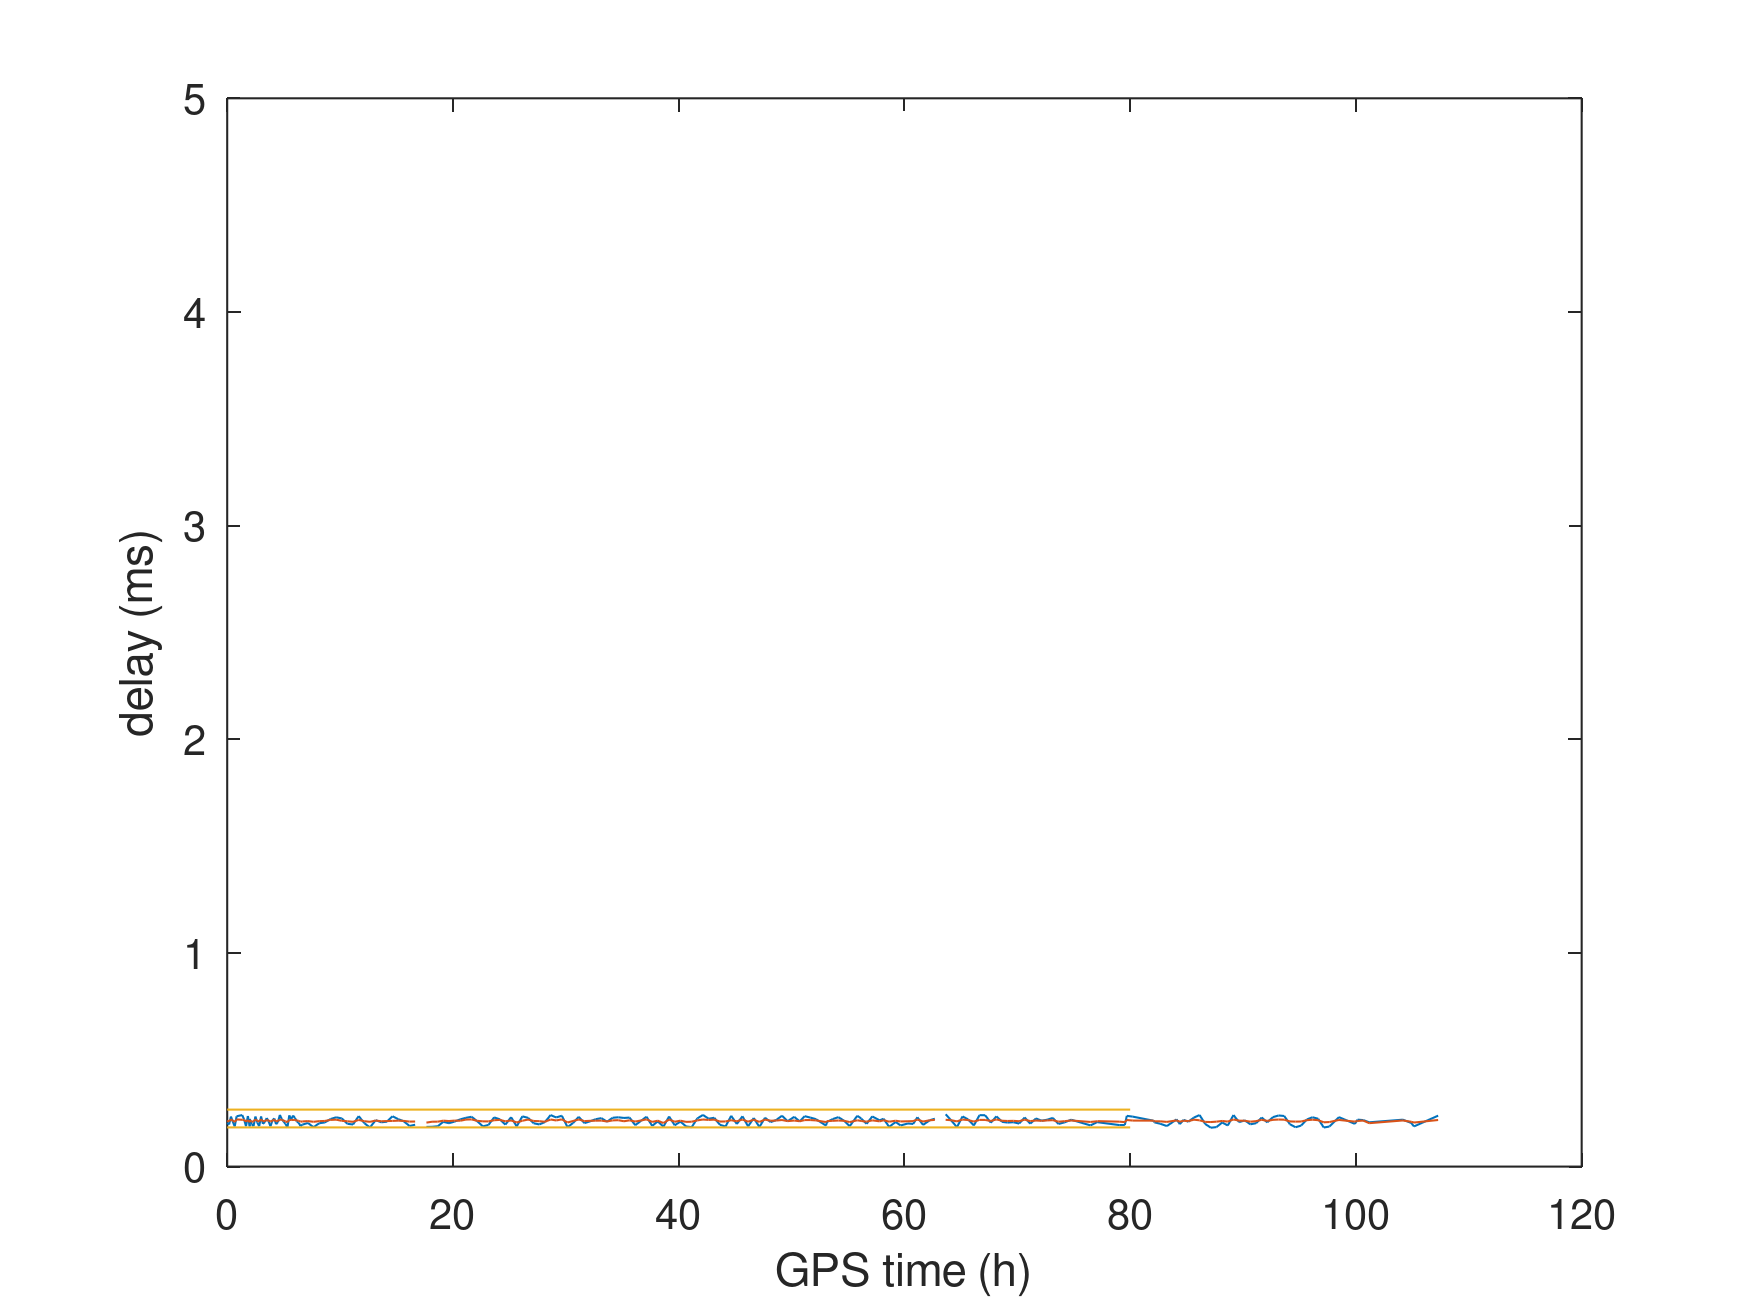
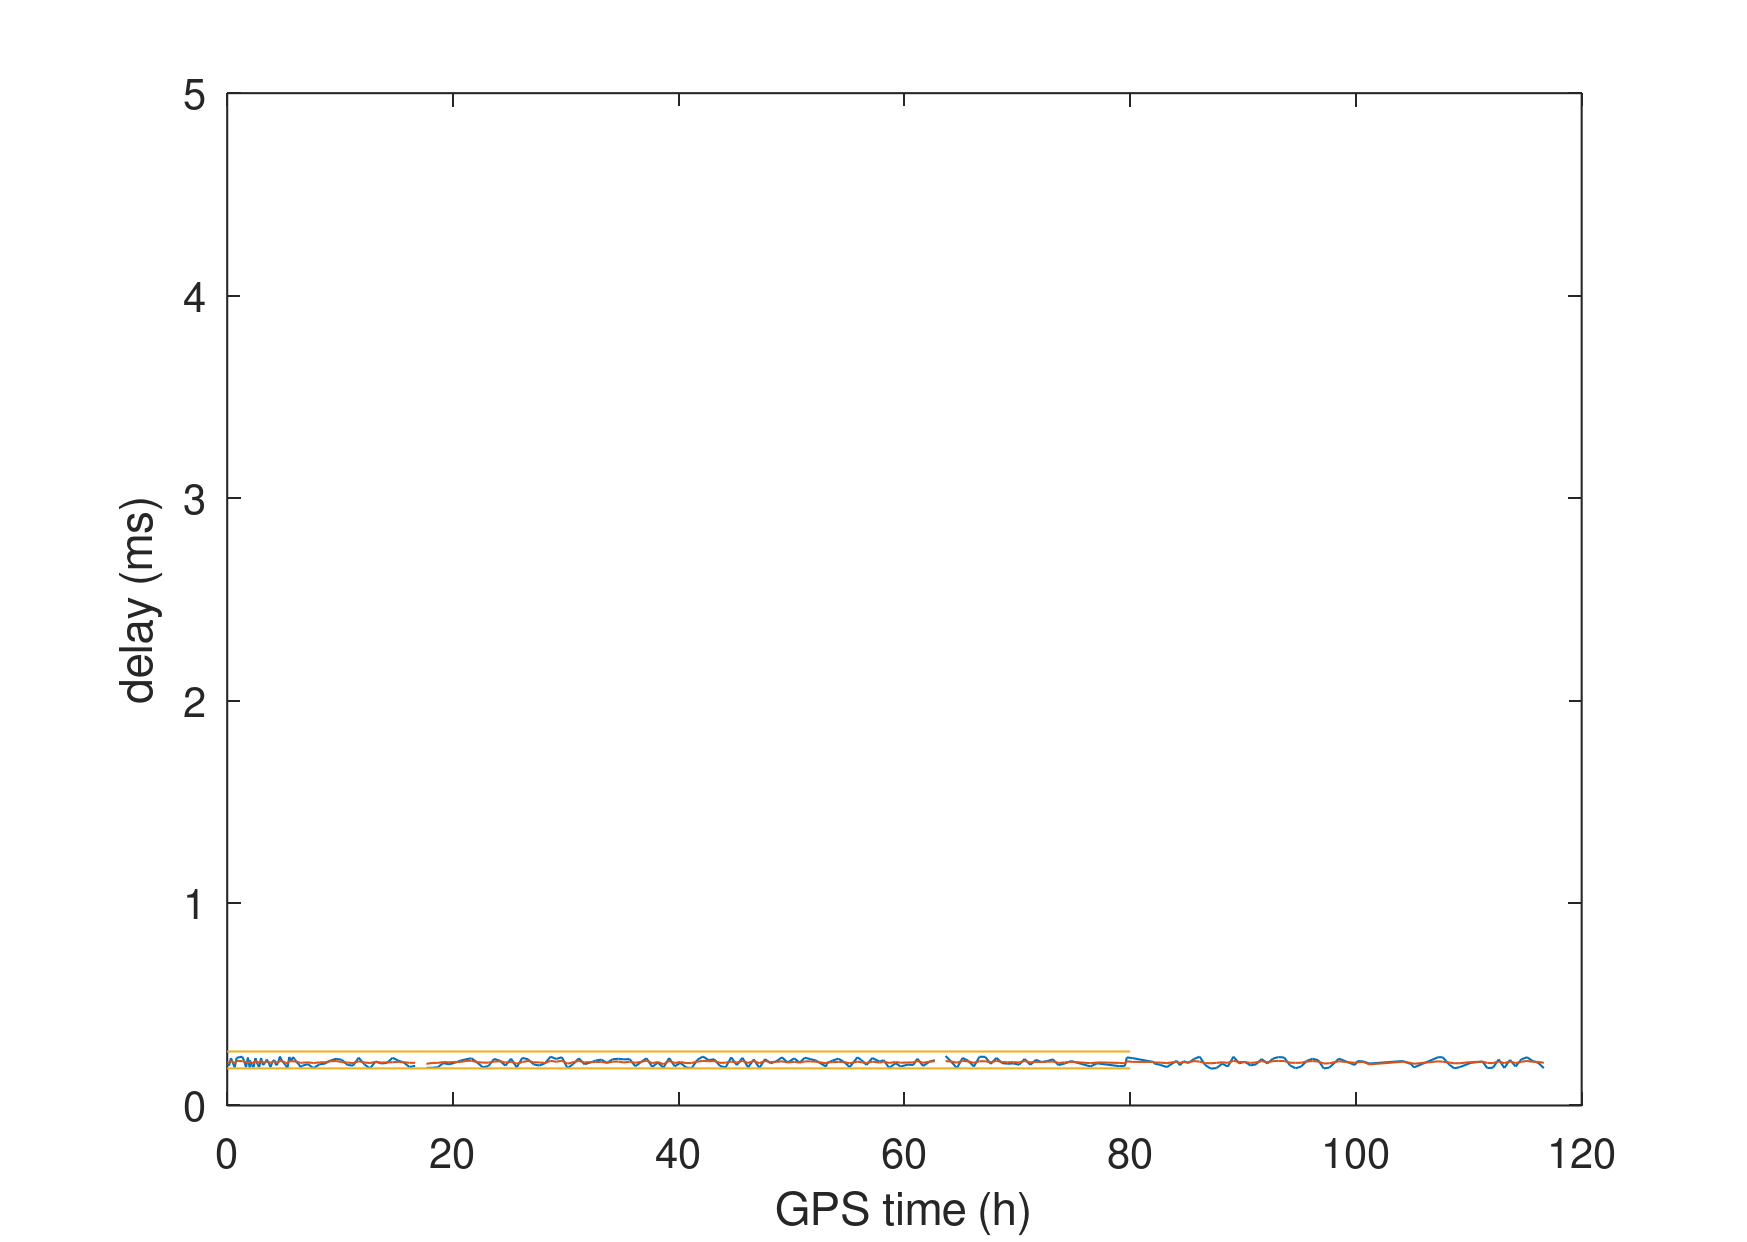
update figures and script

Changed region(s): [[0.1236, 0.8261, 0.8964, 1.0], [0.0618, 0.3977, 0.0927, 0.5813], [0.8964, 0.9179, 0.9273, 0.9485]]

diff --git a/process_als162.m b/process_als162.m
@@ -29,12 +29,12 @@ for dirnum=1:length(dirname)
   dlist=dir([dirname(dirnum).name,'/*162*wav']); % all ALS162 records
   for l=1:length(dlist)
     [x,xx,fs,last_gpsfix]=proc_kiwi_iq_wav([dirname(dirnum).name,'/',dlist(l).name]);
-    if ((isinf(fs)==0)&&(fs>8000))               % check the file was interpreted correctly
+    if ((isempty(xx)==0)&&(isinf(fs)==0)&&(fs>8000))               % check the file was interpreted correctly
       z=cat(1,xx.z);z=z(floor(fs/20):end);       % IQ
       t=cat(1,xx.t);t=t(floor(fs/20):end);       % time
       dt(dirnum)=floor(t(1));                    % first integer GNSS timestamp second
       sol=[];
-      for p=1:8
+      for p=1:9
         if ((p==1)&&(dirnum==1)&&(l==2))
           figure
           subplot(311);plot(t(1:3*fs)-floor(t(1)),abs(z(1:3*fs)));hold on;xlabel('time (s)');ylabel('|I+jQ| (a.u.)');
@@ -62,7 +62,7 @@ for dirnum=1:length(dirname)
               end
               if ((dirnum==1)&&(p<4)&&(l==2))
                 subplot(312);
-                line([(p-1)+sol(p) (p-1)+sol(p)],[-0.5 0.5],'linewidth',2)
+                line([(p)+sol(p) (p)+sol(p)],[-0.5 0.5],'linewidth',2)
               end
             end
           end
@@ -97,7 +97,7 @@ k=find(dt>0);dt=dt(k);solm=solm(k,:);sols=sols(k,:);
 dt=dt-dt(1);
 dt=unwrap(dt/(86400*7)*2*pi)/2/pi*86400*7;
 plot(dt/3600,solm*1000)
-legend('ON5 (1.36 ms)','ECH (0.39 ms)','FR (0.92 ms)','G80 (2.16 ms)','G8U (1.54 ms)','ZAP (1.77 ms)','POL','NUR','MUN')
+legend('ON5 (1.36 ms)','ECH (0.39 ms)','FR (0.92 ms)','G80 (2.16 ms)','G8U (1.54 ms)','ZAP (1.77 ms)','POL','NUR (2.65 ms)','MUN (2.29 ms)','location','eastoutside')
 xlabel('GPS time (h)')
 ylabel('delay (ms)')
 ylim([0 5])

diff --git a/process_dcf77.m b/process_dcf77.m
@@ -43,7 +43,7 @@ for dirnum=1:length(dirname)
   dlist=dir([dirname(dirnum).name,'/*77500*.wav']); % read all DCF77 records
   for l=1:length(dlist)
     [x,xx,fs,last_gpsfix]=proc_kiwi_iq_wav([dirname(dirnum).name,'/',dlist(l).name]);
-    if ((isinf(fs)==0)&&(fs>10000))                 % check the file was interpreted correctly
+    if ((isempty(xx)==0)&&(isinf(fs)==0)&&(fs>10000))                 % check the file was interpreted correctly
       z=cat(1,xx.z);z=z(floor(fs/20):end);
       t=cat(1,xx.t);t=t(floor(fs/20):end);
       dt(dirnum)=floor(t(1));
@@ -85,14 +85,14 @@ figure
 k=find(dt>0);dt=dt(k);solm=solm(k,:);sols=sols(k,:);solmcor=solmcor(k,:);
 dt=dt-dt(1);
 dt=unwrap(dt/(86400*7)*2*pi)/2/pi*86400*7;
-plot(dt/3600,solm*1000)
-legend('ON5 (1.41 ms)','ECH (2.26 ms)','FR (2.80 ms)','G80 (X.XX ms)','G8U (2.31 ms)','ZAP (2.73 ms)','PEN (3.17 ms)','POL','NUR','MUN')
+plot(dt/3600,solm*1000-202)
+legend('ON5 (1.41 ms)','ECH (2.26 ms)','FR (2.80 ms)','G80 (X.XX ms)','G8U (2.31 ms)','ZAP (2.73 ms)','PEN (3.17 ms)','POL (2.26 ms)','NUR (0.86_7 ms)','MUN (0.87 ms)','location','eastoutside')
 xlabel('GPS time (s)')
 ylabel('delay (ms)')
-ylim([202 207])
+ylim([0 5])
 figure
-plot(dt/3600,solmcor*1000)
-legend('ON5 (1.41 ms)','ECH (2.26 ms)','FR (2.80 ms)','G80 (X.XX ms)','G8U (2.31 ms)','ZAP (2.73 ms)','PEN (3.17 ms)','POL','NUR','MUN')
+plot(dt/3600,solmcor*1000-202)
+legend('ON5 (1.41 ms)','ECH (2.26 ms)','FR (2.80 ms)','G80 (X.XX ms)','G8U (2.31 ms)','ZAP (2.73 ms)','PEN (3.17 ms)','POL (2.26 ms)','NUR (0.86_7 ms)','MUN (0.87 ms)','location','eastoutside')
 xlabel('GPS time (h)')
 ylabel('delay with fit (ms)')
-ylim([202 207])
+ylim([0 5])
